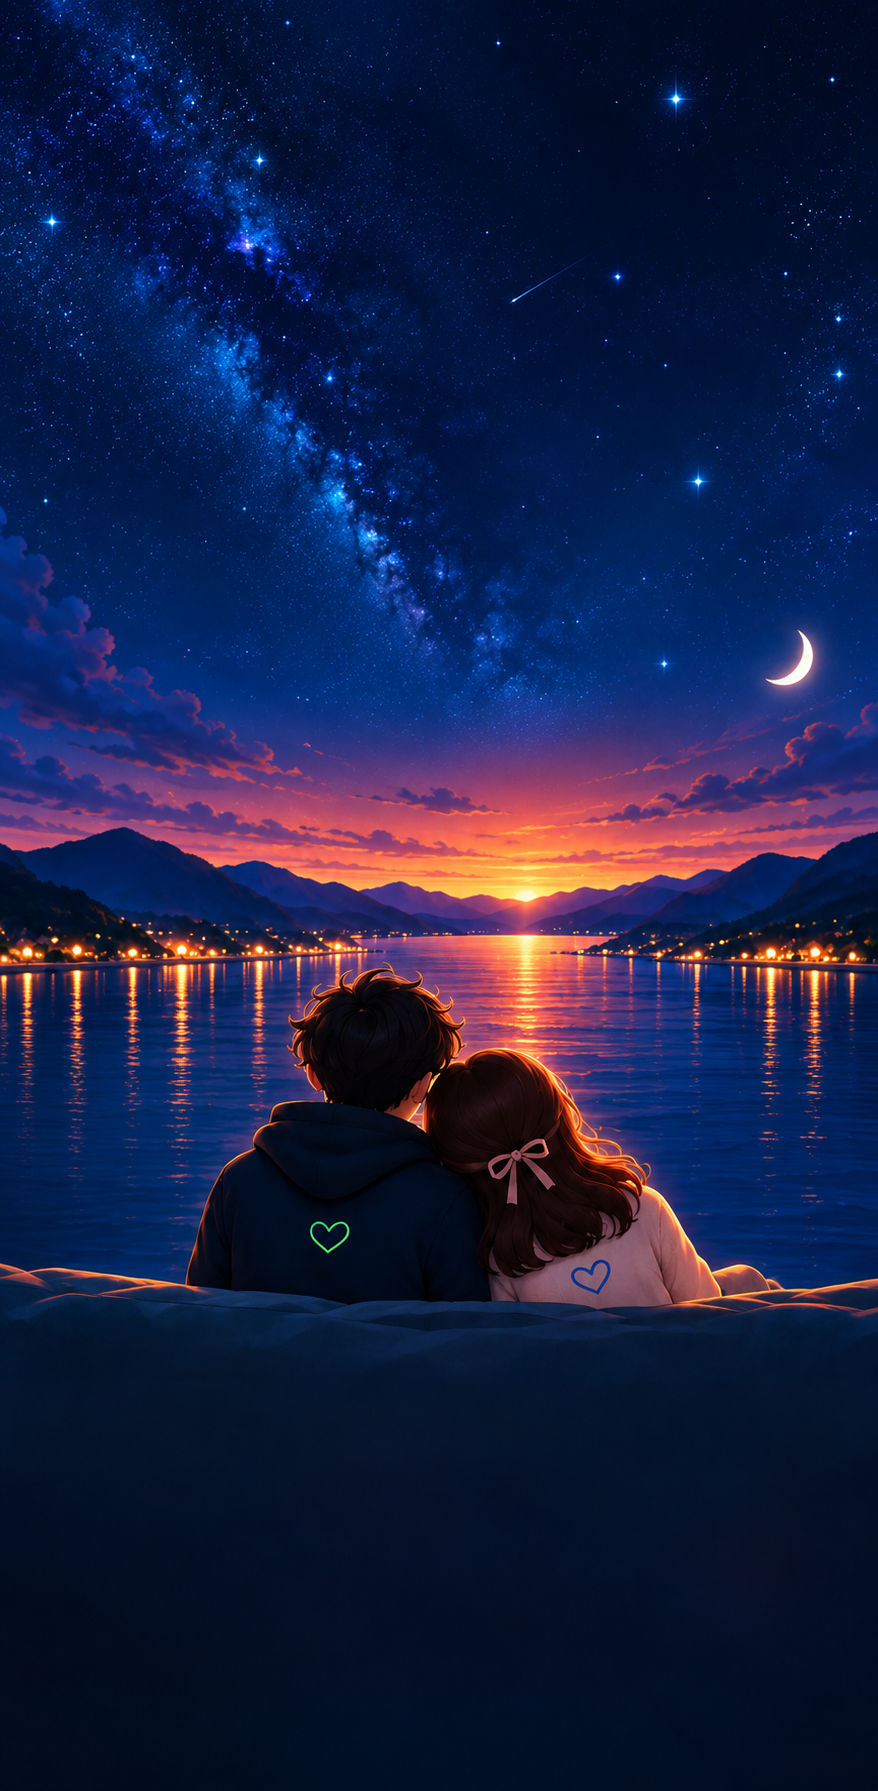
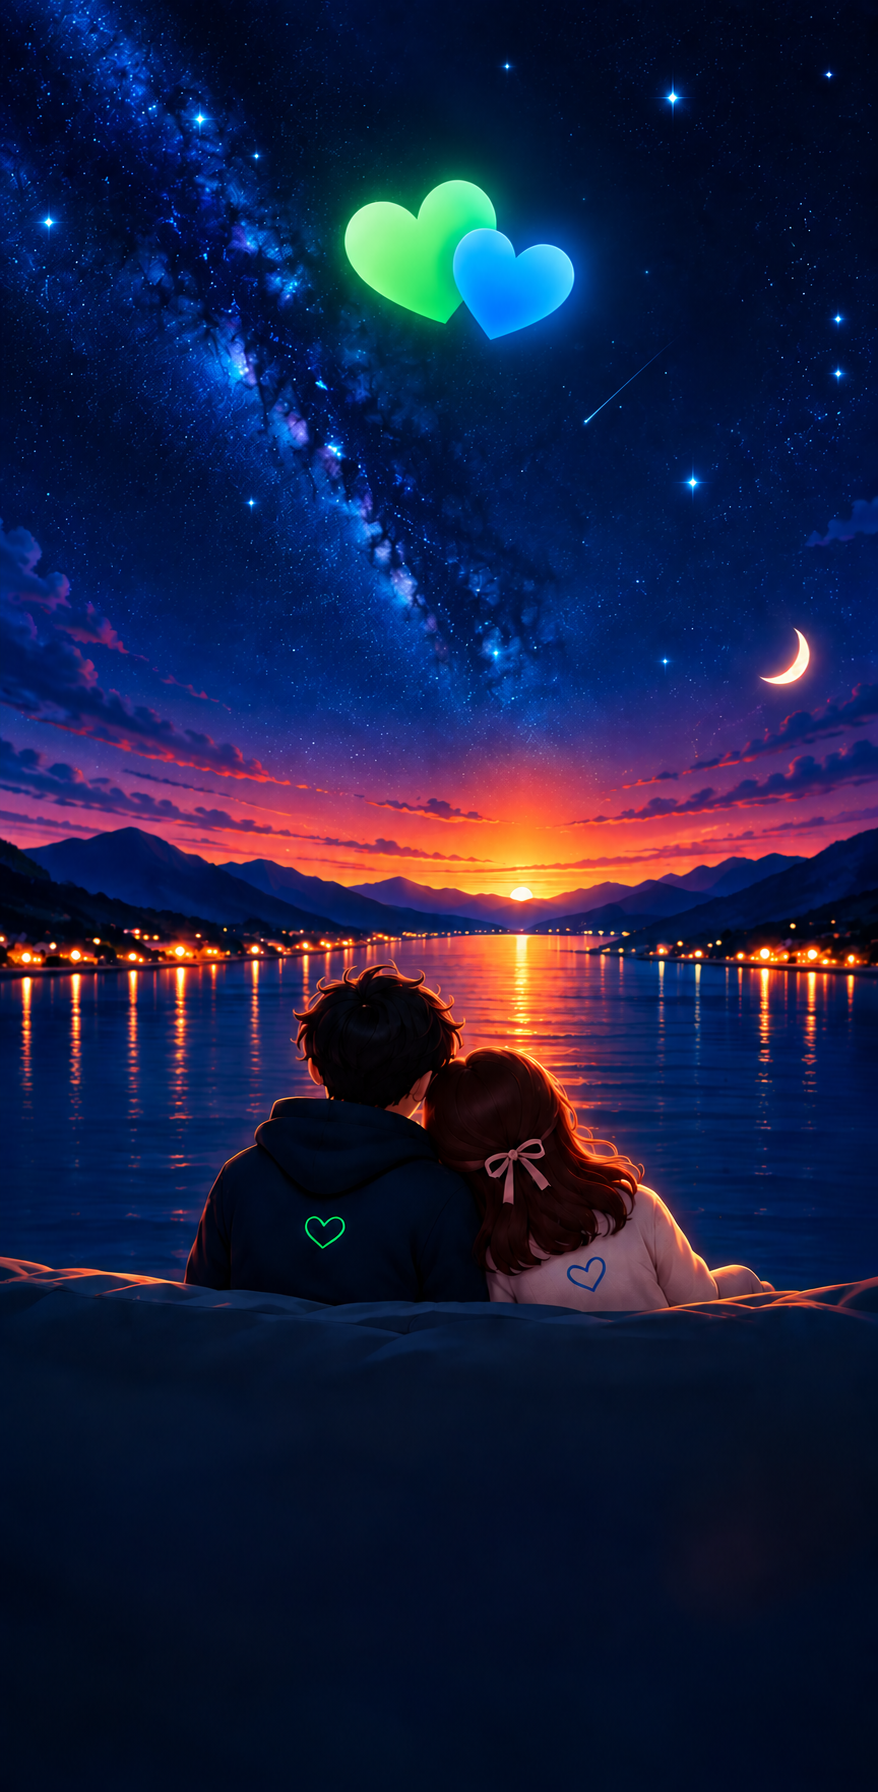
style: update feature cards into 3 distinct translucent cards, refine 3D glowing hearts, and balance sunset background transparency

diff --git a/components/pairing/PairingHeader.tsx b/components/pairing/PairingHeader.tsx
@@ -5,66 +5,80 @@ import React from "react";
 export const PairingHeader: React.FC = () => {
   return (
     <div className="w-full flex flex-col items-center text-center space-y-2 select-none z-10">
-      {/* 3D Glowing Dual Hearts Logo */}
-      <div className="relative w-16 h-16 sm:w-20 sm:h-20 flex items-center justify-center mb-1">
-        {/* Ambient Radial Soft Glow */}
-        <div className="absolute inset-0 bg-gradient-to-tr from-emerald-500/40 via-teal-400/30 to-sky-500/40 rounded-full blur-xl animate-pulse-glow" />
+      {/* 3D Glowing Dual Hearts (Emerald Green + Sky Blue) */}
+      <div className="relative w-20 h-16 sm:w-24 sm:h-20 flex items-center justify-center my-1">
+        {/* Soft Radial Ambient Aura Glow */}
+        <div className="absolute inset-0 bg-gradient-to-r from-emerald-500/30 via-teal-400/20 to-sky-500/30 rounded-full blur-xl animate-pulse-glow" />
 
-        {/* Overlapping Dual 3D Hearts SVG */}
-        <div className="relative z-10 flex items-center justify-center">
-          <svg
-            className="w-12 h-12 sm:w-16 sm:h-16 drop-shadow-[0_0_15px_rgba(52,211,153,0.6)]"
-            viewBox="0 0 64 64"
-            fill="none"
-            xmlns="http://www.w3.org/2000/svg"
-          >
-            <defs>
-              <linearGradient id="emeraldHeart" x1="0%" y1="0%" x2="100%" y2="100%">
-                <stop offset="0%" stopColor="#34D399" />
-                <stop offset="100%" stopColor="#059669" />
-              </linearGradient>
-              <linearGradient id="skyHeart" x1="0%" y1="0%" x2="100%" y2="100%">
-                <stop offset="0%" stopColor="#38BDF8" />
-                <stop offset="100%" stopColor="#0284C7" />
-              </linearGradient>
-            </defs>
+        {/* Dual 3D Hearts SVG */}
+        <svg
+          className="relative z-10 w-16 h-14 sm:w-20 sm:h-16 drop-shadow-[0_0_16px_rgba(52,211,153,0.5)]"
+          viewBox="0 0 100 80"
+          fill="none"
+          xmlns="http://www.w3.org/2000/svg"
+        >
+          <defs>
+            <linearGradient id="emeraldHeartGrad" x1="0%" y1="0%" x2="100%" y2="100%">
+              <stop offset="0%" stopColor="#34D399" />
+              <stop offset="50%" stopColor="#10B981" />
+              <stop offset="100%" stopColor="#059669" />
+            </linearGradient>
+            <linearGradient id="skyHeartGrad" x1="0%" y1="0%" x2="100%" y2="100%">
+              <stop offset="0%" stopColor="#38BDF8" />
+              <stop offset="50%" stopColor="#0284C7" />
+              <stop offset="100%" stopColor="#0369A1" />
+            </linearGradient>
+            <filter id="glowGreen" x="-20%" y="-20%" width="140%" height="140%">
+              <feGaussianBlur stdDeviation="3" result="blur" />
+              <feComposite in="SourceGraphic" in2="blur" operator="over" />
+            </filter>
+            <filter id="glowBlue" x="-20%" y="-20%" width="140%" height="140%">
+              <feGaussianBlur stdDeviation="3" result="blur" />
+              <feComposite in="SourceGraphic" in2="blur" operator="over" />
+            </filter>
+          </defs>
 
-            {/* Left Emerald Heart */}
+          {/* Left Emerald Heart */}
+          <g filter="url(#glowGreen)">
             <path
-              d="M26 14C20.477 14 16 18.477 16 24C16 33.5 28 41 32 43.5C29 38 24 33 24 24C24 18.5 28.5 14 34 14C36.8 14 39.3 15.1 41 17C38 15 34 14 30 14Z"
-              fill="url(#emeraldHeart)"
-              opacity="0.95"
+              d="M38 15 C26 5, 12 18, 22 36 C30 50, 42 62, 44 64 C44 64, 40 50, 36 36 C34 26, 42 18, 44 18 C41 16, 39 15, 38 15 Z"
+              fill="url(#emeraldHeartGrad)"
             />
             <path
-              d="M28 12C21.373 12 16 17.373 16 24C16 34.5 30 43.5 32 45C34 43.5 48 34.5 48 24C48 17.373 42.627 12 36 12C32.1 12 28.7 13.9 26.6 16.8C25.4 13.9 22.4 12 18.8 12C12.3 12 7 17.3 7 23.8C7 34 20 42.5 22 43.8"
-              stroke="#34D399"
-              strokeWidth="1.5"
-              strokeLinecap="round"
+              d="M32 12 C18 12, 10 24, 10 36 C10 52, 34 68, 42 74 C42 74, 14 56, 14 36 C14 26, 20 16, 30 14 C31 13, 31.5 12.5, 32 12 Z"
+              fill="#6EE7B7"
+              opacity="0.6"
             />
-            {/* Main Emerald Heart */}
             <path
-              d="M24 16C18.477 16 14 20.477 14 26C14 36.5 28 44.5 30 46C30 46 22 37 22 26C22 20.5 26.5 16 32 16C35 16 37.5 17.5 39 19.5C36.5 17.2 33.2 16 29.5 16H24Z"
-              fill="url(#emeraldHeart)"
+              d="M30 14 C18 14, 10 24, 10 36 C10 52, 38 70, 42 72 C46 70, 74 52, 74 36 C74 24, 66 14, 54 14 C46 14, 43 19, 42 22 C41 19, 38 14, 30 14 Z"
+              fill="url(#emeraldHeartGrad)"
             />
+          </g>
 
-            {/* Right Sky Blue Heart */}
+          {/* Right Sky Blue Heart (Overlapping right side) */}
+          <g filter="url(#glowBlue)">
             <path
-              d="M40 20C34.477 20 30 24.477 30 30C30 40.5 44 48.5 46 50C48 48.5 62 40.5 62 30C62 24.477 57.523 20 52 20C48.1 20 44.7 21.9 42.6 24.8C41.4 21.9 38.4 20 34.8 20"
-              fill="url(#skyHeart)"
+              d="M58 24 C48 24, 42 32, 42 42 C42 55, 64 70, 67 72 C70 70, 92 55, 92 42 C92 32, 86 24, 76 24 C70 24, 68 28, 67 30 C66 28, 64 24, 58 24 Z"
+              fill="url(#skyHeartGrad)"
             />
-          </svg>
-        </div>
+            <path
+              d="M58 24 C50 24, 44 30, 44 40 C44 50, 62 64, 67 68 C68 66, 68 64, 68 62 C64 58, 48 46, 48 38 C48 30, 52 26, 58 24 Z"
+              fill="#7DD3FC"
+              opacity="0.5"
+            />
+          </g>
+        </svg>
       </div>
 
       {/* Script Title with Green Heart Outline */}
-      <div className="flex items-center justify-center gap-1.5">
-        <h1 className="font-script text-4xl sm:text-5xl font-normal text-white tracking-wide drop-shadow-[0_0_15px_rgba(255,255,255,0.3)]">
+      <div className="flex items-center justify-center gap-2">
+        <h1 className="font-script text-4xl sm:text-5xl font-normal text-white tracking-wide drop-shadow-[0_0_15px_rgba(255,255,255,0.4)]">
           Between Us
         </h1>
         <svg
           className="w-5 h-5 sm:w-6 sm:h-6 text-emerald-400 fill-none stroke-current animate-pulse"
           viewBox="0 0 24 24"
-          strokeWidth={2}
+          strokeWidth={2.2}
         >
           <path
             strokeLinecap="round"
@@ -75,7 +89,7 @@ export const PairingHeader: React.FC = () => {
       </div>
 
       {/* Subtitle */}
-      <div className="flex items-center justify-center gap-1 text-slate-300/90 text-xs sm:text-sm font-medium tracking-wide">
+      <div className="flex items-center justify-center gap-1.5 text-slate-200/90 text-xs sm:text-sm font-medium tracking-wide">
         <span>Just the two of us</span>
         <svg
           className="w-3.5 h-3.5 text-emerald-400 fill-none stroke-current"

diff --git a/components/pairing/FeatureBadges.tsx b/components/pairing/FeatureBadges.tsx
@@ -4,38 +4,44 @@ import React from "react";
 
 export const FeatureBadges: React.FC = () => {
   return (
-    <div className="w-full grid grid-cols-3 gap-2 sm:gap-3 my-3 sm:my-4 z-10 select-none">
-      {/* Voice Calls */}
-      <div className="flex flex-col items-center text-center p-2.5 sm:p-3 rounded-2xl bg-slate-950/40 border border-slate-800/60 backdrop-blur-md hover:border-emerald-500/30 transition-all duration-300">
-        <div className="w-10 h-10 sm:w-12 sm:h-12 rounded-full bg-emerald-500/20 border border-emerald-400/40 flex items-center justify-center text-emerald-400 shadow-[0_0_15px_rgba(16,185,129,0.3)] mb-2">
+    <div className="w-full grid grid-cols-3 gap-2.5 sm:gap-4.5 my-3 sm:my-5 z-10 select-none">
+      {/* Voice Calls Card */}
+      <div className="flex flex-col items-center justify-between text-center p-3.5 sm:p-4 rounded-2xl bg-[#091325]/85 border border-[#1E2E4A]/80 shadow-xl backdrop-blur-md hover:border-emerald-500/40 hover:bg-[#0B182E]/90 transition-all duration-300 min-h-[135px] sm:min-h-[150px]">
+        <div className="w-11 h-11 sm:w-13 sm:h-13 rounded-full bg-emerald-500/20 border border-emerald-400/50 flex items-center justify-center text-emerald-400 shadow-[0_0_15px_rgba(16,185,129,0.35)] mt-1 mb-2">
           <svg className="w-5 h-5 sm:w-6 sm:h-6 fill-current" viewBox="0 0 24 24">
             <path d="M20 15.5c-1.25 0-2.45-.2-3.57-.57a1.02 1.02 0 00-1.02.24l-2.2 2.2a15.045 15.045 0 01-6.59-6.59l2.2-2.21a.96.96 0 00.25-1A11.36 11.36 0 018.5 4c0-.55-.45-1-1-1H4c-.55 0-1 .45-1 1 0 9.39 7.61 17 17 17 .55 0 1-.45 1-1v-3.5c0-.55-.45-1-1-1z" />
           </svg>
         </div>
-        <h3 className="text-[11px] sm:text-xs font-semibold text-white tracking-tight">Voice Calls</h3>
-        <p className="text-[9px] sm:text-[10px] text-slate-400 font-normal">Talk anytime</p>
+        <div>
+          <h3 className="text-xs sm:text-sm font-bold text-white tracking-tight leading-tight">Voice Calls</h3>
+          <p className="text-[10px] sm:text-[11px] text-slate-400 font-medium mt-0.5">Talk anytime</p>
+        </div>
       </div>
 
-      {/* Video Calls */}
-      <div className="flex flex-col items-center text-center p-2.5 sm:p-3 rounded-2xl bg-slate-950/40 border border-slate-800/60 backdrop-blur-md hover:border-sky-500/30 transition-all duration-300">
-        <div className="w-10 h-10 sm:w-12 sm:h-12 rounded-full bg-sky-500/20 border border-sky-400/40 flex items-center justify-center text-sky-400 shadow-[0_0_15px_rgba(56,189,248,0.3)] mb-2">
+      {/* Video Calls Card */}
+      <div className="flex flex-col items-center justify-between text-center p-3.5 sm:p-4 rounded-2xl bg-[#091325]/85 border border-[#1E2E4A]/80 shadow-xl backdrop-blur-md hover:border-sky-500/40 hover:bg-[#0B182E]/90 transition-all duration-300 min-h-[135px] sm:min-h-[150px]">
+        <div className="w-11 h-11 sm:w-13 sm:h-13 rounded-full bg-sky-500/20 border border-sky-400/50 flex items-center justify-center text-sky-400 shadow-[0_0_15px_rgba(56,189,248,0.35)] mt-1 mb-2">
           <svg className="w-5 h-5 sm:w-6 sm:h-6 fill-current" viewBox="0 0 24 24">
             <path d="M17 10.5V7c0-.55-.45-1-1-1H4c-.55 0-1 .45-1 1v10c0 .55.45 1 1 1h12c.55 0 1-.45 1-1v-3.5l4 4v-11l-4 4z" />
           </svg>
         </div>
-        <h3 className="text-[11px] sm:text-xs font-semibold text-white tracking-tight">Video Calls</h3>
-        <p className="text-[9px] sm:text-[10px] text-slate-400 font-normal">See each other</p>
+        <div>
+          <h3 className="text-xs sm:text-sm font-bold text-white tracking-tight leading-tight">Video Calls</h3>
+          <p className="text-[10px] sm:text-[11px] text-slate-400 font-medium mt-0.5">See each other</p>
+        </div>
       </div>
 
-      {/* Private & Secure */}
-      <div className="flex flex-col items-center text-center p-2.5 sm:p-3 rounded-2xl bg-slate-950/40 border border-slate-800/60 backdrop-blur-md hover:border-teal-500/30 transition-all duration-300">
-        <div className="w-10 h-10 sm:w-12 sm:h-12 rounded-full bg-teal-500/20 border border-teal-400/40 flex items-center justify-center text-teal-400 shadow-[0_0_15px_rgba(20,184,166,0.3)] mb-2">
+      {/* Private & Secure Card */}
+      <div className="flex flex-col items-center justify-between text-center p-3.5 sm:p-4 rounded-2xl bg-[#091325]/85 border border-[#1E2E4A]/80 shadow-xl backdrop-blur-md hover:border-teal-500/40 hover:bg-[#0B182E]/90 transition-all duration-300 min-h-[135px] sm:min-h-[150px]">
+        <div className="w-11 h-11 sm:w-13 sm:h-13 rounded-full bg-teal-500/20 border border-teal-400/50 flex items-center justify-center text-teal-400 shadow-[0_0_15px_rgba(20,184,166,0.35)] mt-1 mb-2">
           <svg className="w-5 h-5 sm:w-6 sm:h-6 fill-none stroke-current" viewBox="0 0 24 24" strokeWidth={2}>
             <path strokeLinecap="round" strokeLinejoin="round" d="M12 15v2m-6 4h12a2 2 0 002-2v-6a2 2 0 00-2-2H6a2 2 0 00-2 2v6a2 2 0 002 2zm10-10V7a4 4 0 00-8 0v4h8z" />
           </svg>
         </div>
-        <h3 className="text-[11px] sm:text-xs font-semibold text-white tracking-tight">Private & Secure</h3>
-        <p className="text-[9px] sm:text-[10px] text-slate-400 font-normal">Only for the two of us</p>
+        <div>
+          <h3 className="text-xs sm:text-sm font-bold text-white tracking-tight leading-tight">Private & Secure</h3>
+          <p className="text-[10px] sm:text-[11px] text-slate-400 font-medium mt-0.5 leading-tight">Only for the two of us</p>
+        </div>
       </div>
     </div>
   );

diff --git a/app/pairing/page.tsx b/app/pairing/page.tsx
@@ -57,9 +57,8 @@ export default function PairingPage() {
           sizes="100vw"
           className="object-cover object-center w-full h-full"
         />
-        {/* Soft Atmospheric Gradient Overlays for High Legibility */}
-        <div className="absolute inset-0 bg-gradient-to-b from-[#040814]/80 via-[#040814]/25 to-[#040814]/95" />
-        <div className="absolute inset-0 bg-[radial-gradient(ellipse_at_top,_var(--tw-gradient-stops))] from-teal-500/10 via-transparent to-[#040814]/60" />
+        {/* Soft Ambient Overlay for Optimal Legibility while Keeping Sunset & Couple Crisp */}
+        <div className="absolute inset-0 bg-gradient-to-b from-[#040814]/70 via-transparent to-[#040814]/90" />
       </div>
 
       {/* Main Mobile App Container */}
@@ -67,7 +66,7 @@ export default function PairingPage() {
         
         {/* Top Control Area */}
         <div className="w-full flex items-center justify-between pt-1">
-          <div className="flex items-center gap-1.5 px-2.5 py-1 rounded-full bg-slate-900/70 border border-slate-700/60 text-[10px] text-slate-300 font-mono backdrop-blur-md">
+          <div className="flex items-center gap-1.5 px-2.5 py-1 rounded-full bg-slate-900/60 border border-slate-700/50 text-[10px] text-slate-300 font-mono backdrop-blur-md">
             <span className="w-1.5 h-1.5 rounded-full bg-emerald-400 animate-pulse" />
             <span>ENCRYPTED P2P</span>
           </div>
@@ -79,11 +78,11 @@ export default function PairingPage() {
           <PairingHeader />
         </div>
 
-        {/* 3 Feature Pills: Voice Calls, Video Calls, Private & Secure */}
+        {/* 3 Feature Cards: Voice Calls, Video Calls, Private & Secure */}
         <FeatureBadges />
 
-        {/* Flexible Middle Spacer showing the Romantic Sunset Couple Artwork */}
-        <div className="w-full flex-1 min-h-[120px] sm:min-h-[160px]" />
+        {/* Flexible Middle Spacer revealing the Romantic Sunset Couple Artwork */}
+        <div className="w-full flex-1 min-h-[140px] sm:min-h-[180px]" />
 
         {/* Primary Action Controls */}
         <div className="w-full space-y-3 pt-2">
